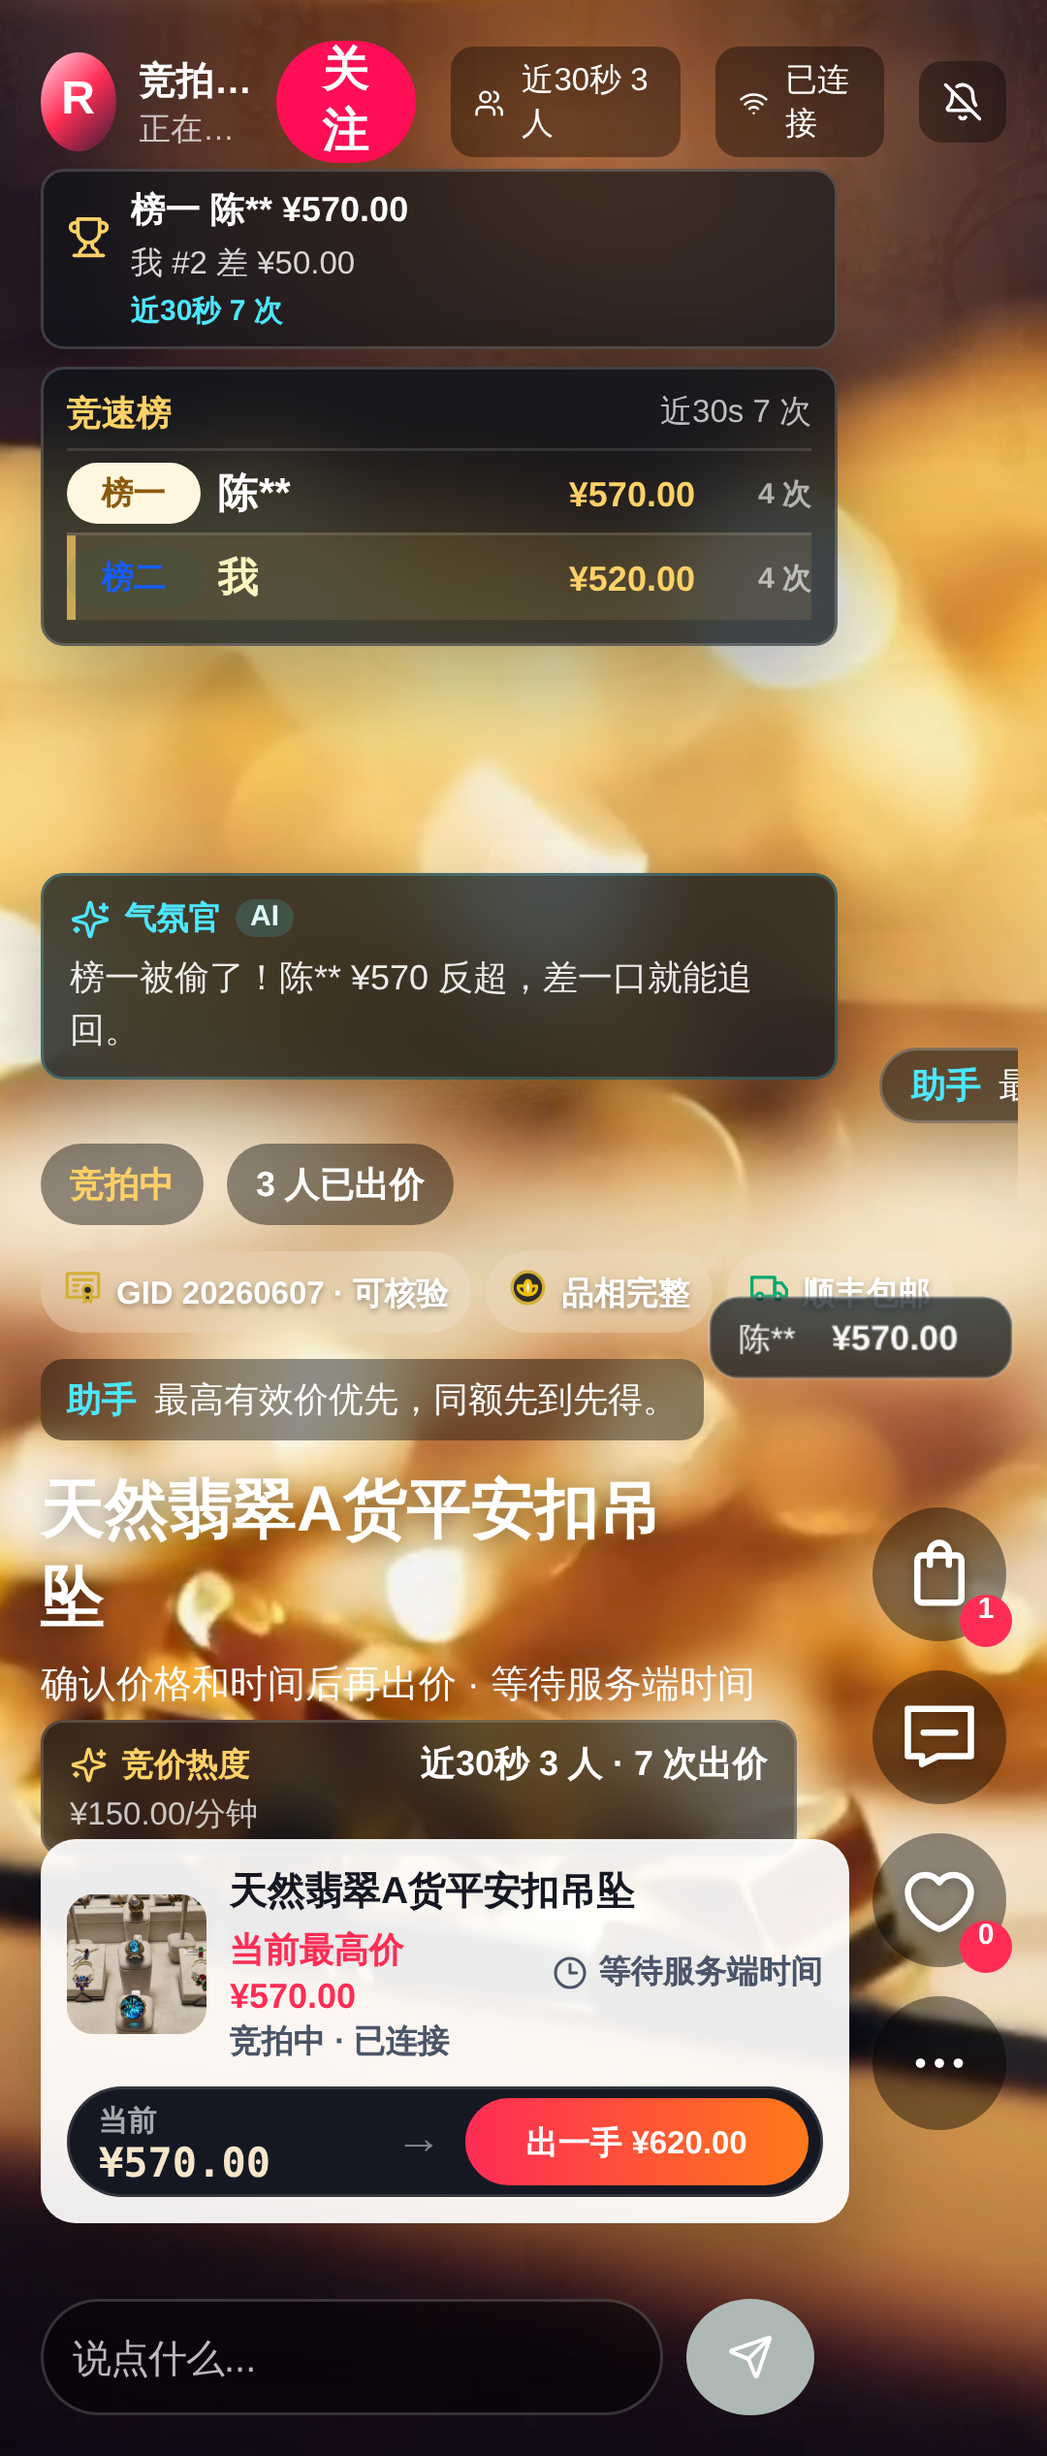
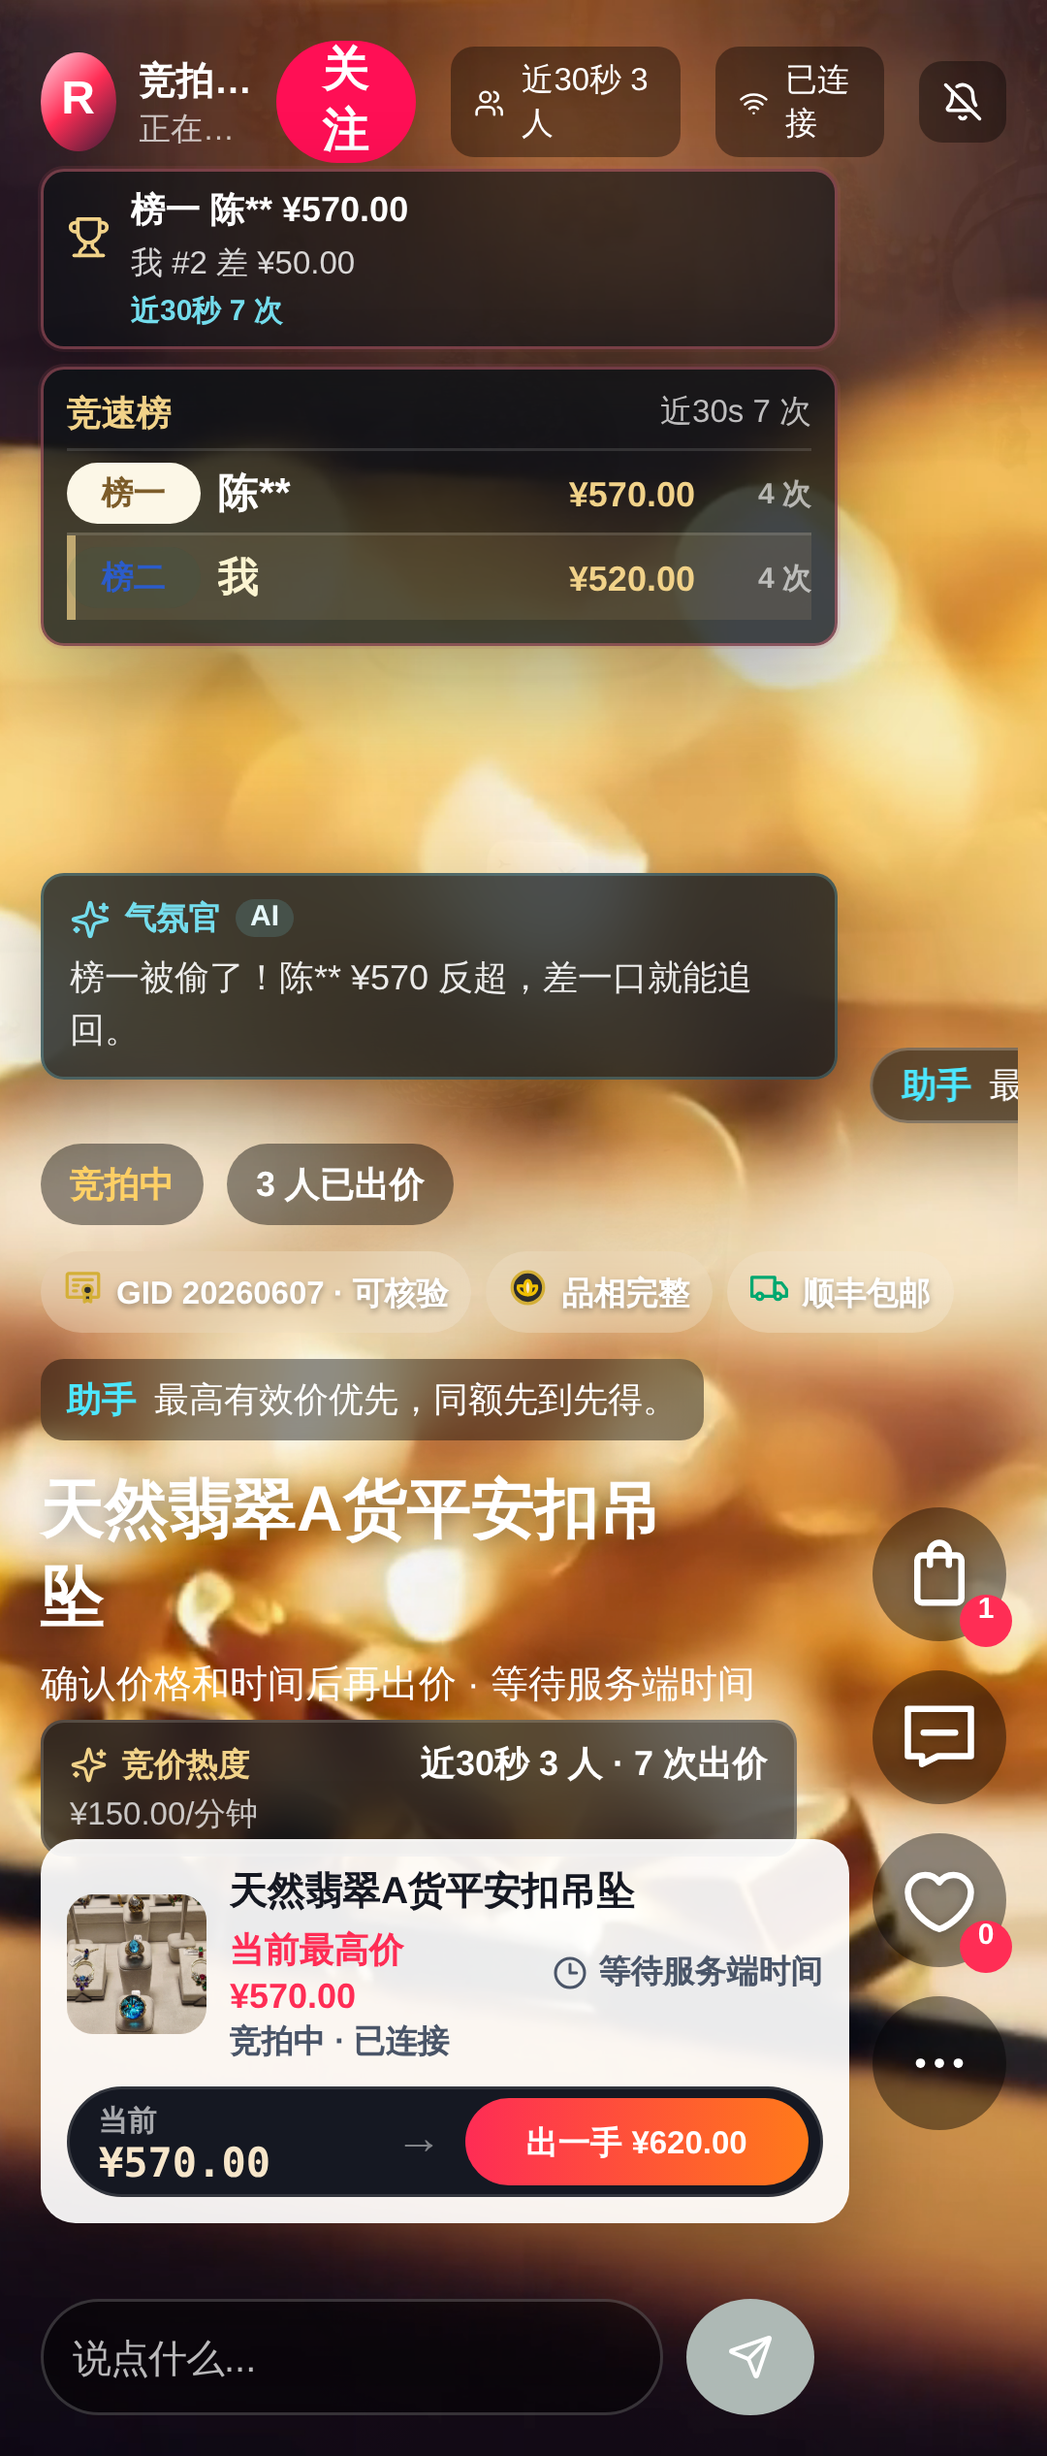
feat(h5): add atmosphere intensity gating

diff --git a/frontend/mobile-h5/src/components.tsx b/frontend/mobile-h5/src/components.tsx
@@ -8,7 +8,7 @@ import MoreIcon from '@icon-park/react/es/icons/More';
 import ShoppingBagIcon from '@icon-park/react/es/icons/ShoppingBagOne';
 import SoundIcon from '@icon-park/react/es/icons/SoundOne';
 import TruckIcon from '@icon-park/react/es/icons/Truck';
-import type { AtmosphereCue } from './atmosphere';
+import type { AtmosphereCue, AtmosphereIntensity } from './atmosphere';
 import type { AuctionItem, AuctionState, AuctionSummary, BottomSheetKey, ChatMessage, ConnectionPhase, CountdownPhase, CountdownPhaseState, HeatSnapshot, HistoryRow, LeaderboardPayload, LiveOpsCampaign, MaxBidIntent, MaxBidPhase, PaymentPhase, ProductQAAnswer, ResultSheetKind, Scenario, SoundCapability, SystemMessage } from './domain';
 import { auctionStatusLabel, connectionSyncCopy, demoLiveVideoURL, demoProductImageURL, formatCents, formatClockTime, isDangerousActionDisabled, leaderboardActionCopy, rankBadgeLabel, riskActionCopy, scenarios } from './domain';
 import { h5Copy } from './copy';
@@ -56,6 +56,8 @@ export function LiveStage({
   systemMessages,
   waterfallChips,
   raceBoardExpanded,
+  atmosphereIntensity,
+  atmosphereGated,
   onOpenBid,
   onOpenLiveOps,
   onOpenMore,
@@ -87,6 +89,8 @@ export function LiveStage({
   systemMessages: SystemMessage[];
   waterfallChips: WaterfallChip[];
   raceBoardExpanded: boolean;
+  atmosphereIntensity: AtmosphereIntensity;
+  atmosphereGated: boolean;
   onOpenBid: () => void;
   onOpenLiveOps: () => void;
   onOpenMore: () => void;
@@ -147,6 +151,8 @@ export function LiveStage({
       data-atmosphere-kind={atmosphereCue?.kind ?? 'none'}
       data-countdown-phase={countdownPhase.phase}
       data-race-board={raceBoardExpanded ? 'expanded' : 'rest'}
+      data-atmosphere-intensity={atmosphereIntensity}
+      data-atmosphere-gated={atmosphereGated ? 'true' : 'false'}
       style={mediaURL ? { '--stage-media-url': `url("${mediaURL}")` } as React.CSSProperties : undefined}
     >
       <video className="live-video-bg" src={videoURL} poster={mediaURL || demoProductImageURL} autoPlay muted loop playsInline aria-hidden="true" />
@@ -173,7 +179,7 @@ export function LiveStage({
           <span>{atmosphereCue.detail}</span>
         </div>
       )}
-      <BidWaterfall chips={waterfallChips} />
+      <BidWaterfall chips={atmosphereGated ? [] : waterfallChips} intensity={atmosphereIntensity} />
       <BarrageLayer messages={barrageMessages} />
       <div className="video-topbar">
         <div className="host-profile">
@@ -194,7 +200,7 @@ export function LiveStage({
           {soundEnabled ? <SoundIcon size={14} theme="filled" fill="#fff" /> : <BellOff size={14} />}
         </button>
       </div>
-      <RaceBoard leaderboard={leaderboard} nextBidCents={nextBidCents} forceExpanded={raceBoardExpanded} onOpenBid={onOpenBid} />
+      <RaceBoard leaderboard={leaderboard} nextBidCents={nextBidCents} forceExpanded={raceBoardExpanded} intensity={atmosphereIntensity} onOpenBid={onOpenBid} />
       <CohostRibbon messages={cohostMessages} />
       <div className="stage-safe-zone">
         <div className="live-topic-row" aria-label="live-topic">
@@ -264,11 +270,13 @@ function RaceBoard({
   leaderboard,
   nextBidCents,
   forceExpanded,
+  intensity,
   onOpenBid
 }: {
   leaderboard: LeaderboardPayload | null;
   nextBidCents: number;
   forceExpanded: boolean;
+  intensity: AtmosphereIntensity;
   onOpenBid: () => void;
 }) {
   const entries = leaderboard?.entries ?? [];
@@ -292,6 +300,7 @@ function RaceBoard({
     <section
       className={`race-board ${expanded ? 'is-expanded' : 'is-rest'}`}
       data-testid="race-board"
+      data-intensity={intensity}
       aria-label="常驻竞速榜"
       aria-live="polite"
     >
@@ -324,7 +333,7 @@ function RaceBoard({
   );
 }
 
-function BidWaterfall({ chips }: { chips: WaterfallChip[] }) {
+function BidWaterfall({ chips, intensity }: { chips: WaterfallChip[]; intensity: AtmosphereIntensity }) {
   const canvasRef = useRef<HTMLCanvasElement | null>(null);
 
   useEffect(() => {
@@ -346,7 +355,8 @@ function BidWaterfall({ chips }: { chips: WaterfallChip[] }) {
       }
       ctx.clearRect(0, 0, width, height);
       const now = Date.now();
-      const active = chips.slice(-24);
+      const activeLimit = intensity >= 3 ? 24 : intensity === 2 ? 16 : 8;
+      const active = chips.slice(-activeLimit);
       active.forEach((chip, index) => {
         const age = now - chip.created_at;
         const life = 2600;

diff --git a/frontend/mobile-h5/src/main.tsx b/frontend/mobile-h5/src/main.tsx
@@ -7,7 +7,7 @@ import { AuctionStatePanel, BottomSheet, ChatComposer, ChatPanel, LeaderboardPan
 import { ResultSheet } from './result';
 import type { AuctionItem, AuctionOverlayMode, AuctionRealtimeEvent, AuctionState, AuctionSummary, AuctionSoundPack, AuthUser, BidderRequirement, BidPhase, BidResponse, BottomSheetKey, ChatMessage, ConnectionPhase, HistoryRow, LeaderboardPayload, LiveOpsCampaign, MaxBidIntent, MaxBidPhase, OrderRow, PaymentPhase, PendingBidRequest, ProductQAAnswer, ProductQATurn, RecoveryPhase, ResultSheetKind, Scenario, SnapshotResponse, SoundCapability, SystemMessage, WSTicketResponse } from './domain';
 import { createAudioContext, createClientBidID, demoProductImageURL, demoUserID, deriveCountdown, deriveCountdownPhase, ensureDemoSession, extensionCopyFromEvent, formatCents, heatSnapshot, isBidConfirmationPending, isCountdownExpired, isDangerousActionDisabled, isEngineRejected, isTestMatrixEnabled, loadAuctionSoundPack, maxBidErrorCopy, maxBidStatusCopy, playAuctionSound, playCountdownTone, playCueTone, playLayeredCue, readJSON, rejectCopy, responseServerTimeMS, retryAfterMS, retryAfterMSFromHeaders, roomIDFromPath, scenarios, selectEntryAuction, speakSystemMessage, vibrateCountdownPhase, vibratePattern, visibleRoomAuctions } from './domain';
-import { normalizeAtmosphere } from './atmosphere';
+import { calculateAtmosphereIntensity, normalizeAtmosphere, shouldGateAtmosphere } from './atmosphere';
 import { reconnectDelayMS } from './realtime';
 import { h5Copy } from './copy';
 import './styles.css';
@@ -217,6 +217,12 @@ function App() {
   }, [activeAuctionID, auctionEndAt, connectionPhase, nowMS, recoveryPhase, selected, serverTimeMS]);
   const activeAuction = useMemo(() => roomAuctions.find((auction) => auction.id === activeAuctionID), [activeAuctionID, roomAuctions]);
   const heat = useMemo(() => heatSnapshot(leaderboard, activeAuction), [activeAuction, leaderboard]);
+  const atmosphereIntensity = useMemo(() => calculateAtmosphereIntensity({
+    acceptedBids30s: heat.acceptedBids30s,
+    priceVelocityCentsPerMin: heat.priceVelocityCentsPerMin,
+    remainingMS: countdownPhase.remainingMS,
+    extended: selected === 'extended'
+  }), [countdownPhase.remainingMS, heat.acceptedBids30s, heat.priceVelocityCentsPerMin, selected]);
   const bidCooldownRemainingMS = Math.max(0, bidCooldownUntilMS - nowMS);
   const raceBoardExpanded = raceBoardExpandedUntil > nowMS;
   const countdownExpired = useMemo(() => (
@@ -766,6 +772,14 @@ function App() {
       ctaDisabled: countdownExpired
     };
   }, [activeAuctionID, bidCooldownRemainingMS, bidFeedback, bidderRequirement, bidPhase, confirmAmountCents, connectionPhase, countdownCopy, countdownExpired, currentPriceCents, lastSeq, leaderMasked, minimumNextBidCents, nextBidCents, payableOrderAmountCents, payableOrderID, paymentPhase, recoveryPhase, selected, terminalPriceCents, terminalWinnerID]);
+  const atmosphereGate = useMemo(() => shouldGateAtmosphere({
+    recovering: recoveryPhase !== 'idle' || connectionPhase === 'recovering',
+    stale: scenario.stale || countdownPhase.phase === 'stale' || selected === 'recovering',
+    disconnected: connectionPhase === 'disconnected' || selected === 'disconnected',
+    reducedMotion: false,
+    lowPower: false,
+    aiOff: false
+  }), [connectionPhase, countdownPhase.phase, recoveryPhase, scenario.stale, selected]);
   const resultSheetKind: ResultSheetKind | null = selected === 'sold_winner'
     ? 'winner'
     : selected === 'sold_loser'
@@ -1843,6 +1857,8 @@ function App() {
         systemMessages={systemMessages}
         waterfallChips={waterfallChips}
         raceBoardExpanded={raceBoardExpanded}
+        atmosphereIntensity={atmosphereIntensity}
+        atmosphereGated={atmosphereGate.gated}
         auctions={roomAuctions}
         activeAuctionID={activeAuctionID}
         currentPriceCents={currentPriceCents}

diff --git a/tests/e2e/atmosphere-engine.spec.ts b/tests/e2e/atmosphere-engine.spec.ts
@@ -1,5 +1,5 @@
 import { expect, test } from '@playwright/test';
-import { atmospherePriority, normalizeAtmosphere } from '../../frontend/mobile-h5/src/atmosphere';
+import { atmospherePriority, calculateAtmosphereIntensity, normalizeAtmosphere, shouldGateAtmosphere } from '../../frontend/mobile-h5/src/atmosphere';
 import { reconnectDelayMS } from '../../frontend/mobile-h5/src/realtime';
 
 test('H5 atmosphere priority keeps terminal and recovery effects above bid and social noise', () => {
@@ -62,6 +62,51 @@ test('H5 atmosphere cue ids are monotonic by default', () => {
     user_scope: 'self'
   }, 43);
   expect(second?.id).toBeGreaterThan(first?.id ?? 0);
+});
+
+test('H5 atmosphere intensity maps real heat and final seconds to 0..3', () => {
+  expect(calculateAtmosphereIntensity({ acceptedBids30s: 0, priceVelocityCentsPerMin: 0, remainingMS: 60_000 })).toBe(0);
+  expect(calculateAtmosphereIntensity({ acceptedBids30s: 2, priceVelocityCentsPerMin: 0, remainingMS: 60_000 })).toBe(1);
+  expect(calculateAtmosphereIntensity({ acceptedBids30s: 5, priceVelocityCentsPerMin: 5000, remainingMS: 60_000 })).toBe(2);
+  expect(calculateAtmosphereIntensity({ acceptedBids30s: 10, priceVelocityCentsPerMin: 0, remainingMS: 60_000 })).toBe(3);
+  expect(calculateAtmosphereIntensity({ acceptedBids30s: 0, priceVelocityCentsPerMin: 12000, remainingMS: 60_000 })).toBe(3);
+  expect(calculateAtmosphereIntensity({ acceptedBids30s: 0, priceVelocityCentsPerMin: 0, remainingMS: 9_500 })).toBe(1);
+  expect(calculateAtmosphereIntensity({ acceptedBids30s: 0, priceVelocityCentsPerMin: 0, remainingMS: 4_500 })).toBe(2);
+  expect(calculateAtmosphereIntensity({ acceptedBids30s: 0, priceVelocityCentsPerMin: 0, remainingMS: 2_500 })).toBe(3);
+  expect(calculateAtmosphereIntensity({ acceptedBids30s: 4, priceVelocityCentsPerMin: 0, remainingMS: 60_000, extended: true })).toBe(3);
+});
+
+test('H5 atmosphere gate suppresses hype during stale recovery while preserving AI-off separation', () => {
+  expect(shouldGateAtmosphere({})).toEqual({
+    gated: false,
+    reasons: [],
+    allowMotion: true,
+    allowAI: true
+  });
+  expect(shouldGateAtmosphere({ recovering: true, stale: true })).toEqual({
+    gated: true,
+    reasons: ['recovering', 'stale'],
+    allowMotion: false,
+    allowAI: false
+  });
+  expect(shouldGateAtmosphere({ disconnected: true })).toEqual({
+    gated: true,
+    reasons: ['disconnected'],
+    allowMotion: false,
+    allowAI: false
+  });
+  expect(shouldGateAtmosphere({ reducedMotion: true, aiOff: true })).toEqual({
+    gated: true,
+    reasons: ['reducedMotion', 'aiOff'],
+    allowMotion: false,
+    allowAI: false
+  });
+  expect(shouldGateAtmosphere({ aiOff: true })).toEqual({
+    gated: false,
+    reasons: ['aiOff'],
+    allowMotion: true,
+    allowAI: false
+  });
 });
 
 test('H5 reconnect backoff honors Retry-After and stays bounded', () => {

diff --git a/frontend/mobile-h5/src/atmosphere.ts b/frontend/mobile-h5/src/atmosphere.ts
@@ -13,6 +13,31 @@ export type AtmosphereCue = {
   priority: number;
 };
 
+export type AtmosphereIntensity = 0 | 1 | 2 | 3;
+
+export type AtmosphereSignals = {
+  acceptedBids30s?: number;
+  priceVelocityCentsPerMin?: number;
+  remainingMS?: number | null;
+  extended?: boolean;
+};
+
+export type AtmosphereGateInput = {
+  recovering?: boolean;
+  stale?: boolean;
+  disconnected?: boolean;
+  reducedMotion?: boolean;
+  lowPower?: boolean;
+  aiOff?: boolean;
+};
+
+export type AtmosphereGate = {
+  gated: boolean;
+  reasons: Array<keyof AtmosphereGateInput>;
+  allowMotion: boolean;
+  allowAI: boolean;
+};
+
 export type AtmosphereInput = {
   kind: AtmosphereKind;
   title: string;
@@ -38,6 +63,45 @@ export const atmospherePriority: Record<AtmosphereKind, number> = {
   leading: 50,
   social: 10
 };
+
+function clampIntensity(value: number): AtmosphereIntensity {
+  if (value >= 3) return 3;
+  if (value >= 2) return 2;
+  if (value >= 1) return 1;
+  return 0;
+}
+
+export function calculateAtmosphereIntensity(signals: AtmosphereSignals): AtmosphereIntensity {
+  const accepted = Math.max(0, signals.acceptedBids30s ?? 0);
+  const velocity = Math.max(0, signals.priceVelocityCentsPerMin ?? 0);
+  const remaining = signals.remainingMS;
+  let intensity = 0;
+  if (accepted >= 10) intensity = Math.max(intensity, 3);
+  else if (accepted >= 4) intensity = Math.max(intensity, 2);
+  else if (accepted >= 1) intensity = Math.max(intensity, 1);
+  if (velocity >= 12000) intensity = Math.max(intensity, 3);
+  else if (velocity >= 5000) intensity = Math.max(intensity, 2);
+  else if (velocity > 0) intensity = Math.max(intensity, 1);
+  if (remaining != null && Number.isFinite(remaining) && remaining > 0) {
+    if (remaining <= 3000) intensity = Math.max(intensity, 3);
+    else if (remaining <= 5000) intensity = Math.max(intensity, 2);
+    else if (remaining <= 10000) intensity = Math.max(intensity, 1);
+  }
+  if (signals.extended && intensity > 0) intensity += 1;
+  return clampIntensity(intensity);
+}
+
+export function shouldGateAtmosphere(input: AtmosphereGateInput): AtmosphereGate {
+  const reasons = (['recovering', 'stale', 'disconnected', 'reducedMotion', 'lowPower', 'aiOff'] as Array<keyof AtmosphereGateInput>)
+    .filter((key) => Boolean(input[key]));
+  const hardGated = Boolean(input.recovering || input.stale || input.disconnected);
+  return {
+    gated: hardGated || Boolean(input.reducedMotion || input.lowPower),
+    reasons,
+    allowMotion: !hardGated && !input.reducedMotion && !input.lowPower,
+    allowAI: !hardGated && !input.aiOff
+  };
+}
 
 export function normalizeAtmosphere(
   input: AtmosphereInput,

diff --git a/frontend/mobile-h5/src/styles.css b/frontend/mobile-h5/src/styles.css
@@ -348,6 +348,23 @@ button {
   animation: race-board-open 220ms ease-out both;
 }
 
+.race-board[data-intensity="2"] .race-board-rest,
+.race-board[data-intensity="2"] .race-board-expanded {
+  border-color: rgba(255, 209, 102, .34);
+}
+
+.race-board[data-intensity="3"] .race-board-rest,
+.race-board[data-intensity="3"] .race-board-expanded {
+  border-color: rgba(255, 91, 117, .48);
+  box-shadow: 0 16px 34px rgba(0, 0, 0, .28), 0 0 0 1px rgba(255, 91, 117, .12);
+}
+
+.video-stage[data-atmosphere-gated="true"] .race-board,
+.video-stage[data-atmosphere-gated="true"] .cohost-ribbon,
+.video-stage[data-atmosphere-gated="true"] .heat-meter {
+  filter: saturate(.68);
+}
+
 .race-board-title {
   min-height: 20px;
   display: flex;

diff --git a/tests/e2e/mobile-h5.spec.ts b/tests/e2e/mobile-h5.spec.ts
@@ -601,6 +601,8 @@ test('H5 renders always-on race board and waterfall from authoritative leaderboa
   });
 
   const stage = page.getByTestId('live-stage');
+  await expect(stage).toHaveAttribute('data-atmosphere-gated', 'false');
+  await expect(stage).toHaveAttribute('data-atmosphere-intensity', '3');
   await expect(stage.getByTestId('race-board')).toContainText('榜一 我 ¥520.00');
   await expect(stage.getByTestId('race-board')).toContainText('竞速榜');
   await expect(stage.getByTestId('bid-waterfall')).toBeVisible();

diff --git a/docs/reviews/极致竞价氛围-3.0-2026-06-07/08-执行记录-2026-06-07.md b/docs/reviews/极致竞价氛围-3.0-2026-06-07/08-执行记录-2026-06-07.md
@@ -43,3 +43,43 @@
 - 末段窒息：`going once/二/三` 视觉升温、soft-close 延时大幅可视化、音频心跳床。
 - 落槌高潮：礼花/聚光/战绩卡先于支付的完整编排。
 - AI 激活：真 `API_KEY` 路径、模板降级路径、事实一致性抽查证据。
+
+## Round 2 · IntensityModel / Gating 底座
+
+本轮补 `01` 与 `06` 明确要求的 L1 纯函数底座，不改出价热路径：
+
+- `frontend/mobile-h5/src/atmosphere.ts` 新增 `calculateAtmosphereIntensity(signals) -> 0|1|2|3`：
+  - `accepted_bids_30s`: 1–3 => I1，4–9 => I2，>=10 => I3。
+  - `price_velocity_cents_per_min`: >0 => I1，>=5000 => I2，>=12000 => I3。
+  - `remainingMS`: <=10s => I1，<=5s => I2，<=3s => I3。
+  - `extended` 在已有热度上提升一档，上限 I3。
+- `frontend/mobile-h5/src/atmosphere.ts` 新增 `shouldGateAtmosphere(input)`：
+  - `recovering/stale/disconnected` 为硬门控，禁止 motion 与 AI。
+  - `reducedMotion/lowPower` 禁止 motion。
+  - `aiOff` 只关闭 AI，不误伤真实榜单/瀑布 motion。
+- `frontend/mobile-h5/src/main.tsx` 将真实 heat + countdown phase 接入强度模型，并将 `data-atmosphere-intensity` / `data-atmosphere-gated` 暴露到 `LiveStage`。
+- `frontend/mobile-h5/src/components.tsx` 让 `BidWaterfall` 根据 intensity 调整同屏粒子上限；gated 时不渲染瀑布芯片。
+- `frontend/mobile-h5/src/styles.css` 让 I2/I3 影响竞速榜边框/阴影；gated 时对主氛围组件去饱和。
+
+### 验证
+
+- `npx playwright test tests/e2e/atmosphere-engine.spec.ts --reporter=line`：6 passed。
+- `pnpm --filter mobile-h5 build`：通过。
+- `npx playwright test tests/e2e/mobile-h5.spec.ts -g "always-on race board|leaderboard delta" --reporter=line`：3 passed，包含 `data-atmosphere-intensity="3"` 与 `data-atmosphere-gated="false"` 主舞台断言。
+- `node docs/reviews/极致竞价氛围-3.0-2026-06-07/capture-atmosphere.mjs`：通过，复写 390/360 视觉证据。
+
+### 对照评估
+
+| 文档项 | 本轮状态 | 说明 |
+|---|---|---|
+| `01` L1 IntensityModel | **完成基础版** | 覆盖真实出价速率、涨速、末段秒数、延时提升。 |
+| `01` L1 Gating | **完成基础版** | 恢复/过期/断连硬门控，reduced-motion/low-power/ai-off 语义拆分。 |
+| `03` 瀑布密度 | **部分接入** | 先按 intensity 调整同屏粒子上限；后续还需 burst 密度和轨迹调优。 |
+| `06` 可测试纯函数 | **已覆盖** | `atmosphere-engine.spec.ts` 单测覆盖 intensity/gating 关键边界。 |
+
+### 下一轮缺口
+
+- 末段窒息：把 `data-atmosphere-intensity` 与 `countdownPhase` 变成明确的 going once/二/三 舞台升温视觉。
+- soft-close：延时事件的大幅可视化，而不是仅 toast/文案。
+- 落槌高潮：礼花/聚光/战绩卡先于支付的完整编排。
+- AI 激活：真 `API_KEY` 路径、模板降级路径、事实一致性抽查证据。
